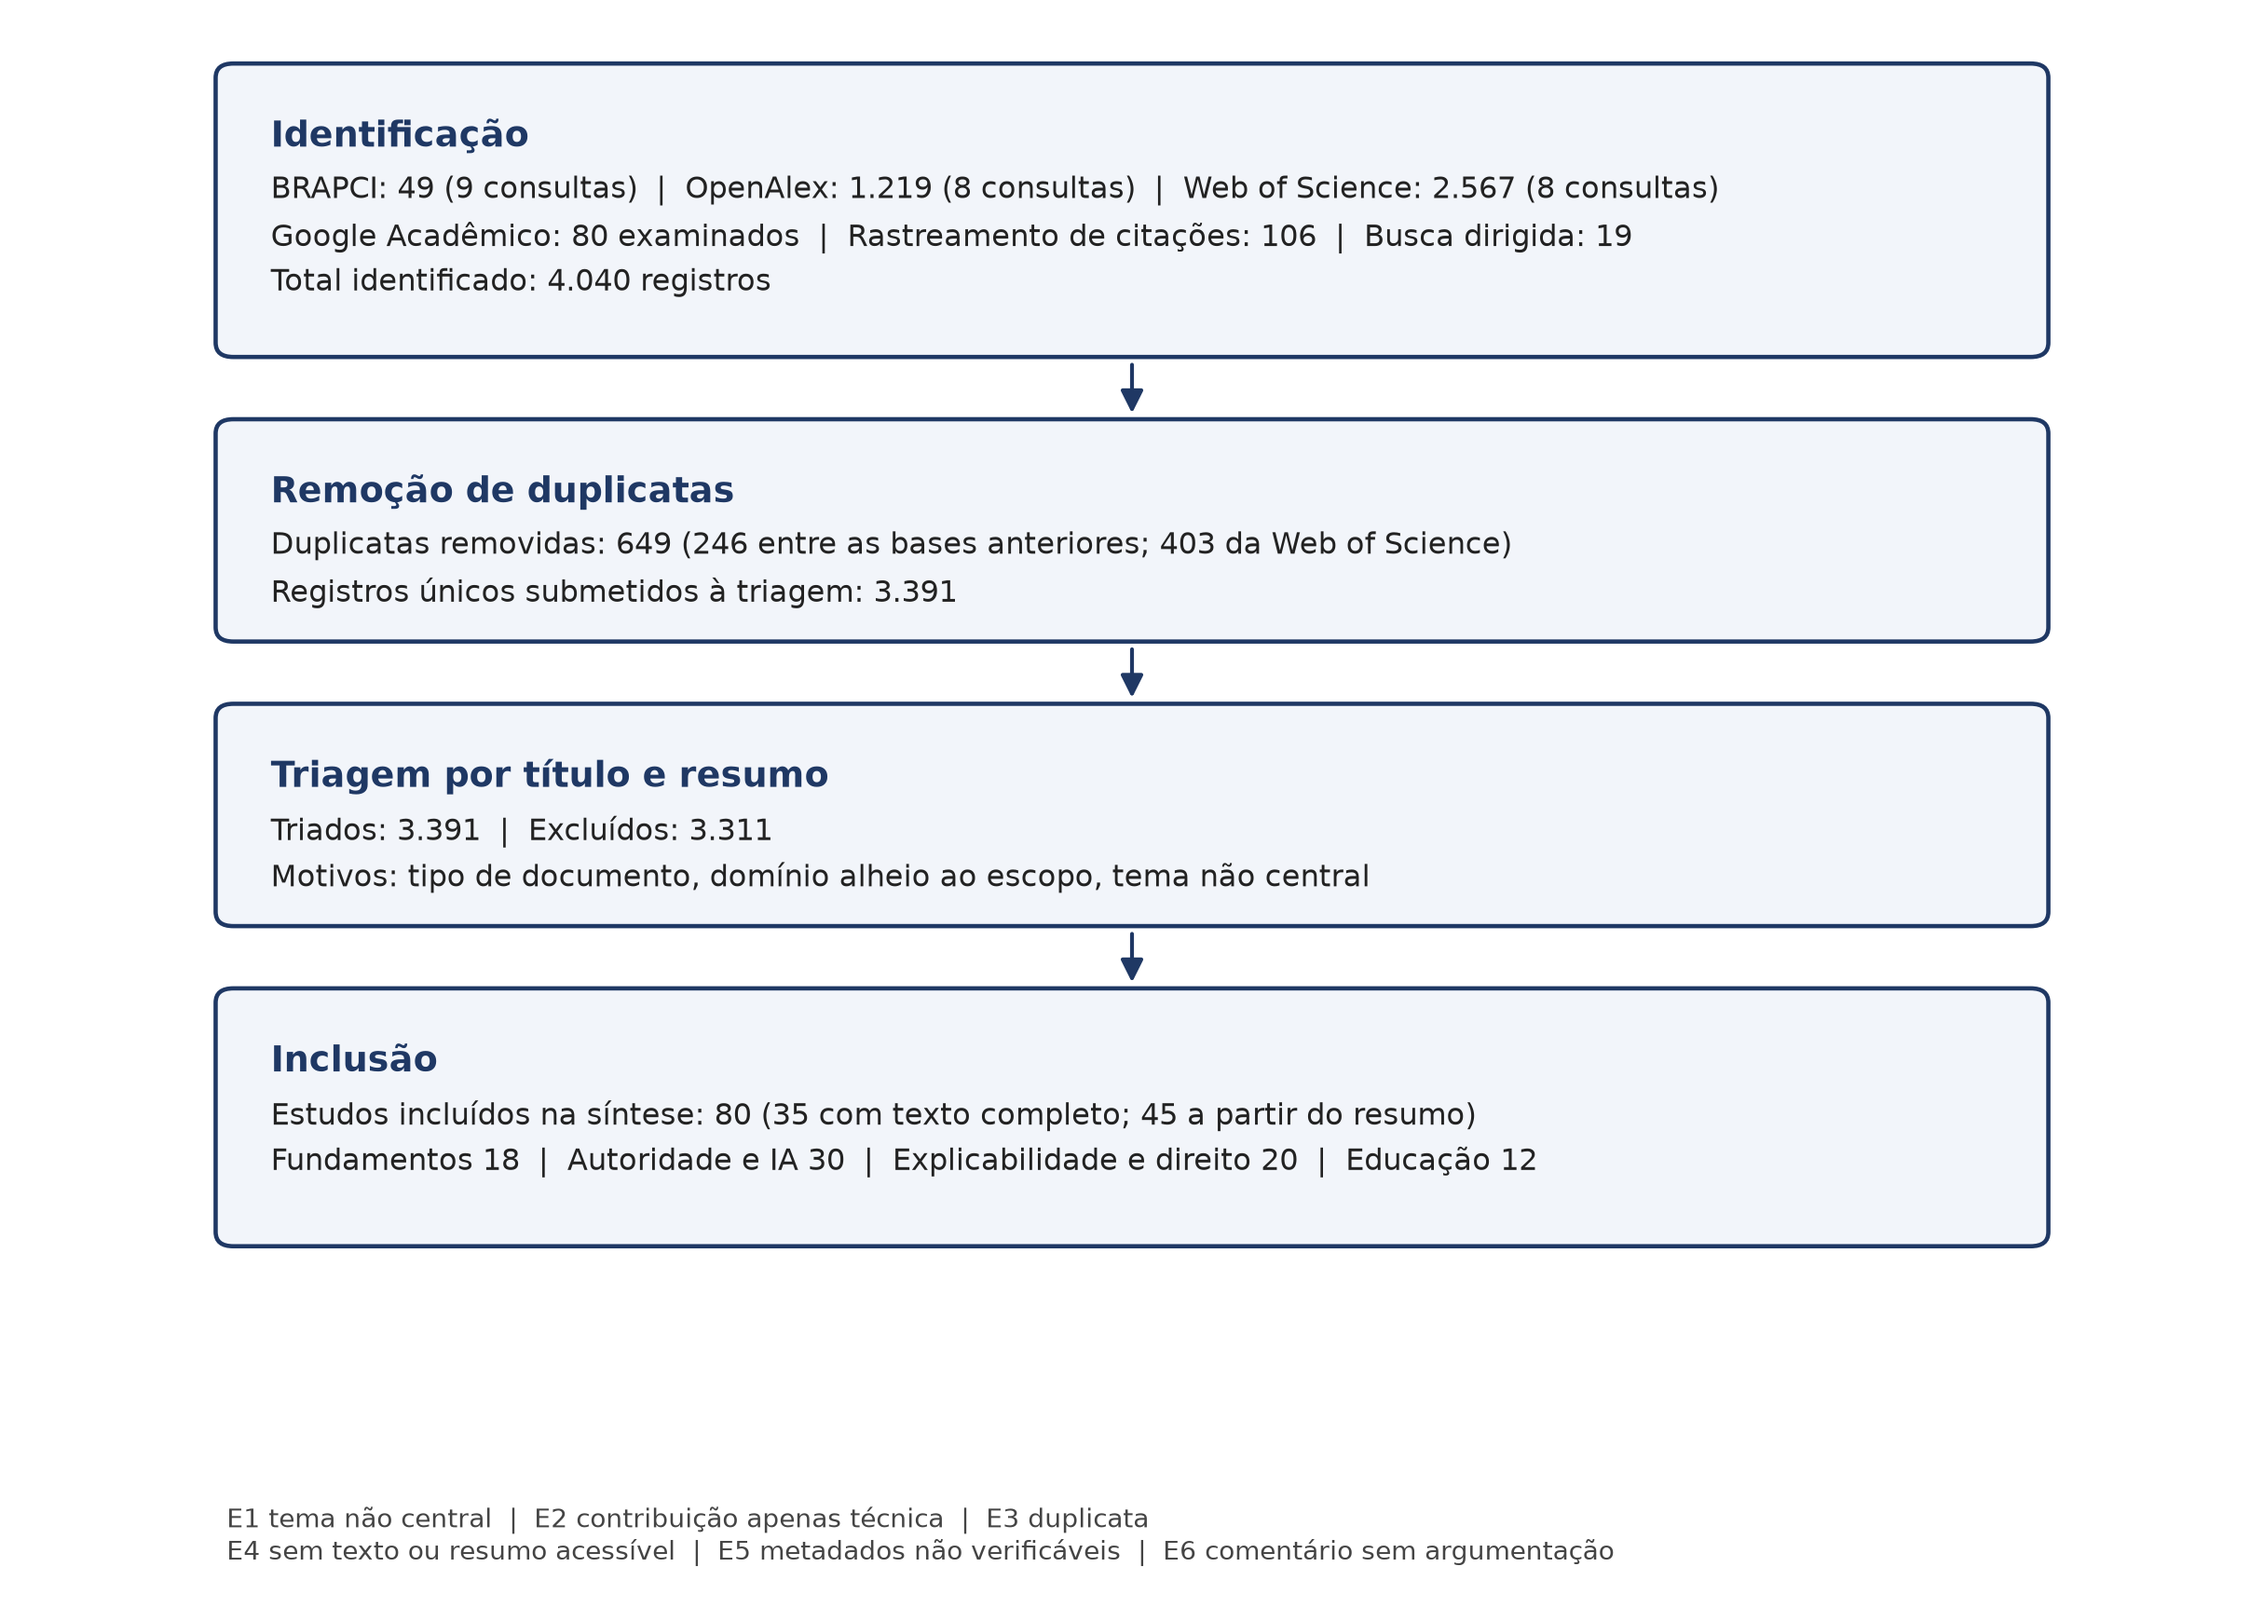
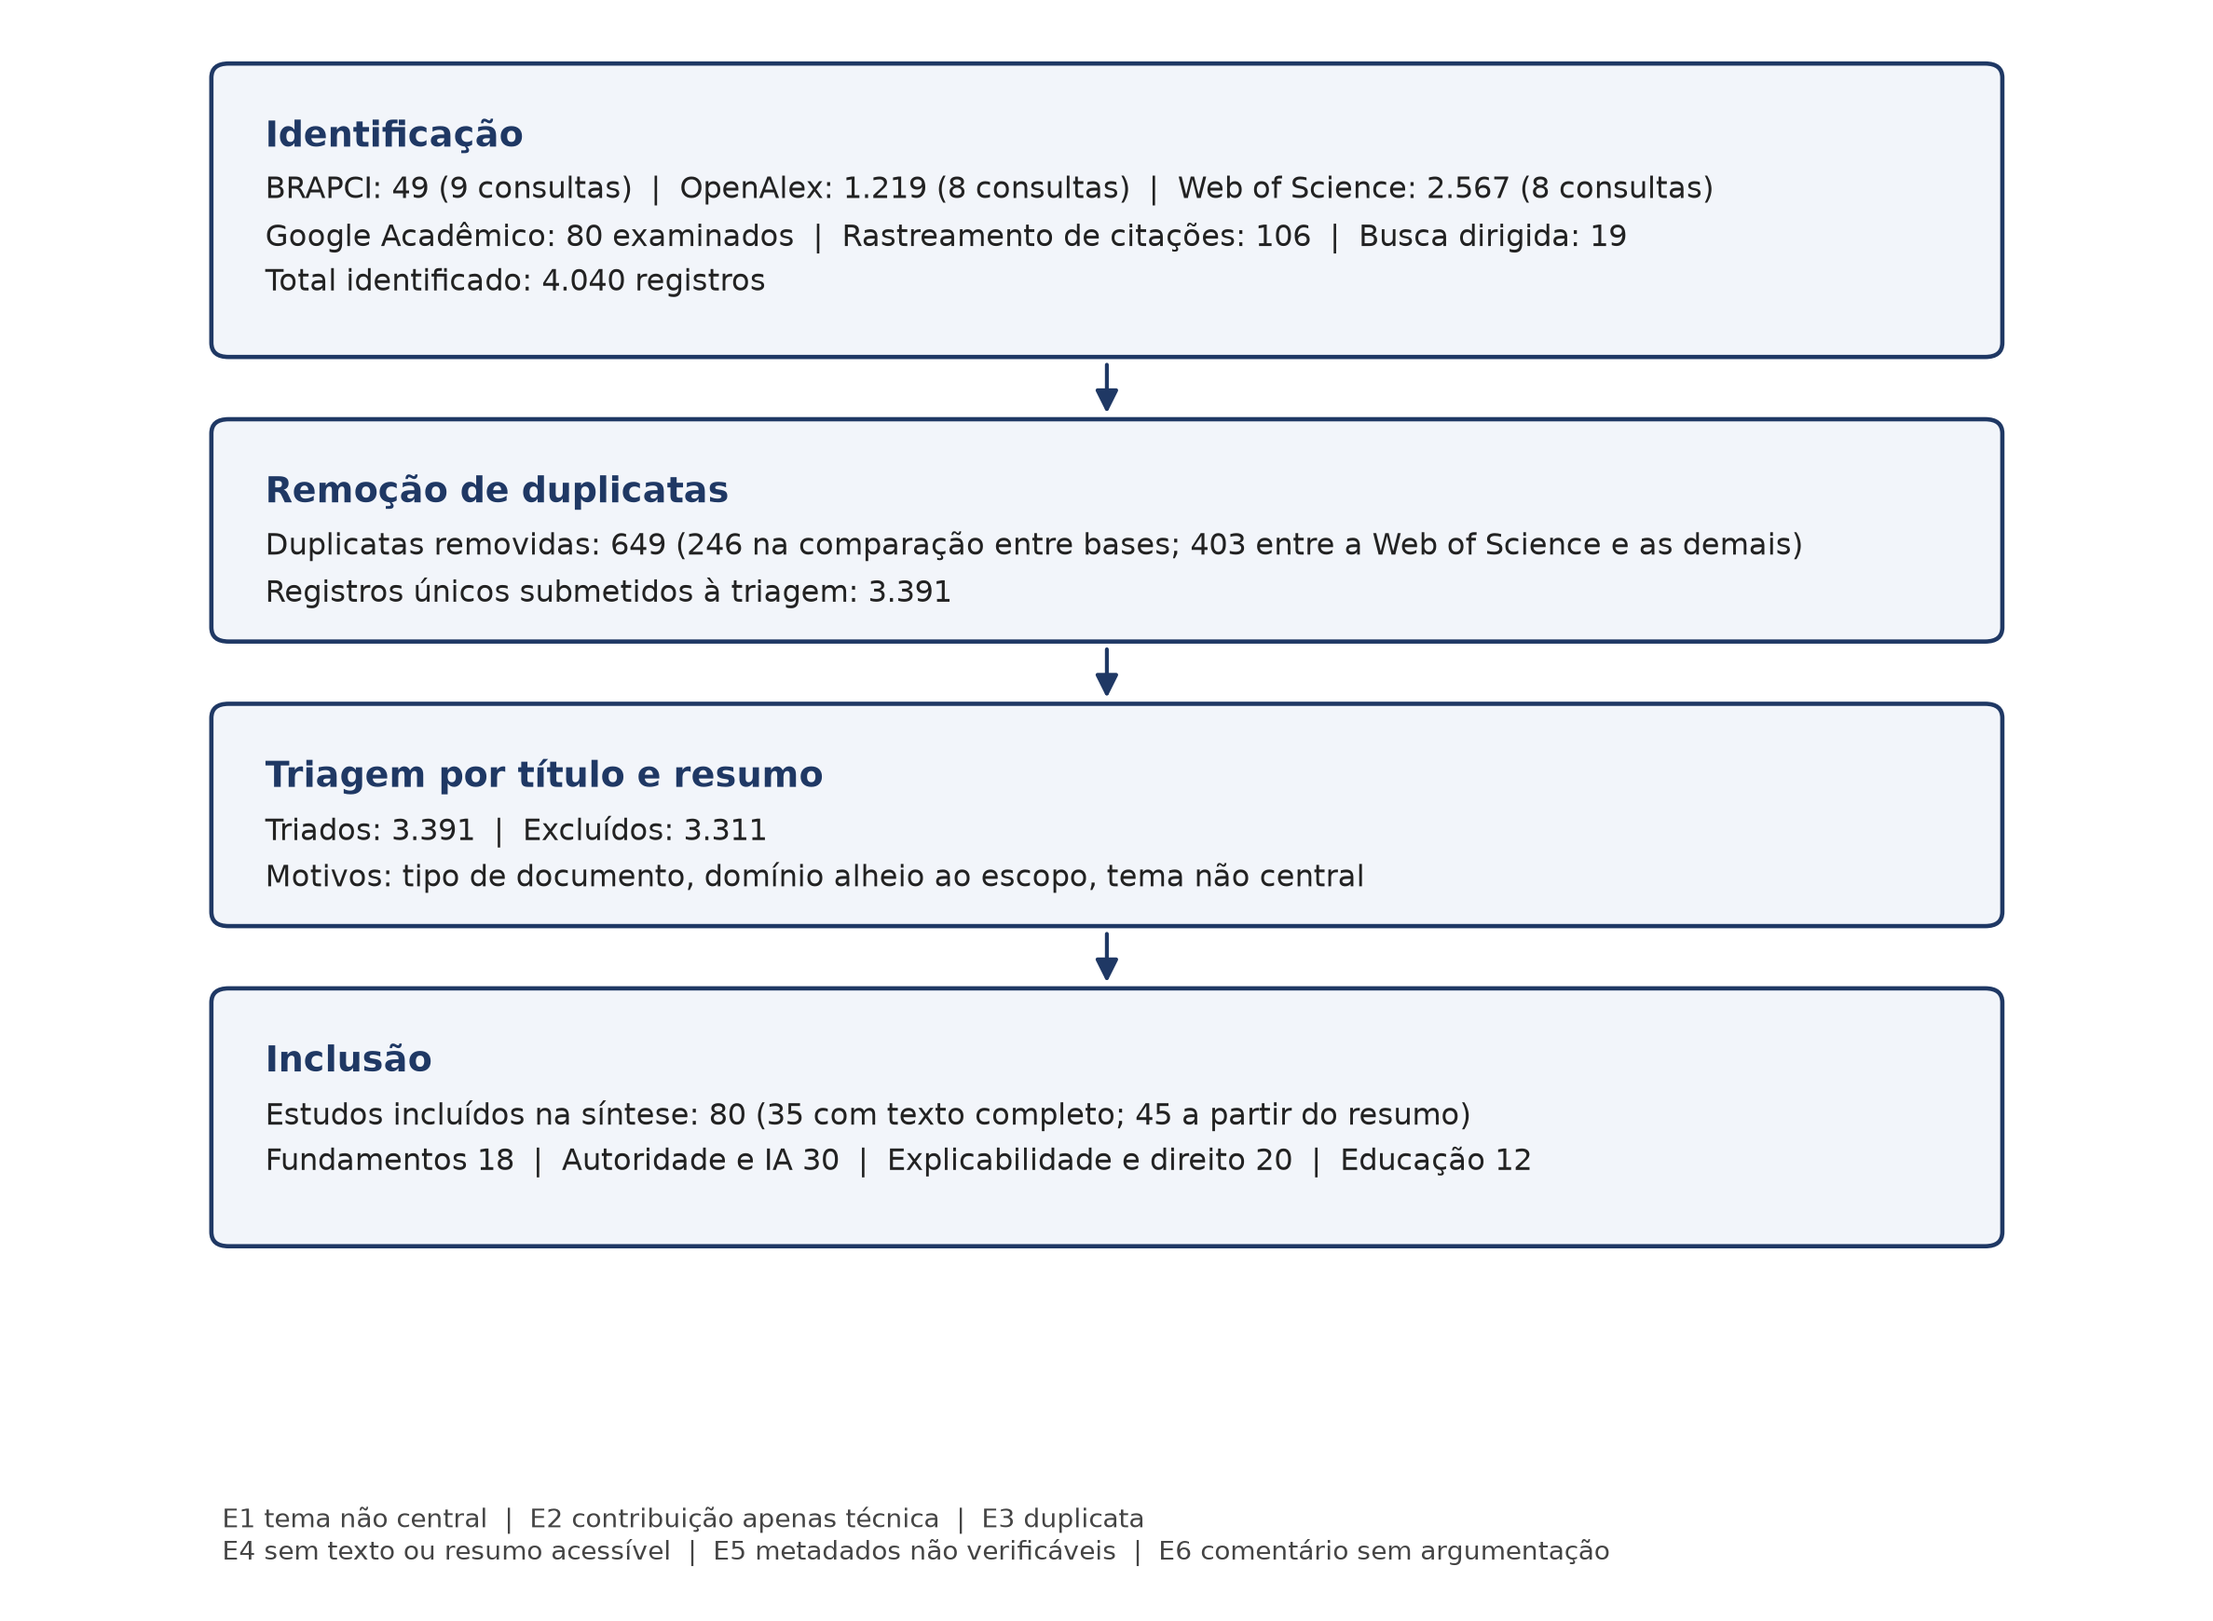
Números do corpus completo: figura 2 recalculada sobre 3.391 registros, figura 1 e planilha com redação neutra, estatísticas derivadas e changelog 1.3.0

diff --git a/scripts/estat_corpus.py b/scripts/estat_corpus.py
@@ -1,0 +1,50 @@
+# -*- coding: utf-8 -*-
+"""Estatísticas do corpus único completo, usadas na Figura 2.
+
+Lê os registros únicos das bases (dados/02_triagem/registros_unicos_bases.csv) e os
+registros novos da Web of Science (dados/01_buscas/wos_registros_novos.csv), ambos
+separados por ponto e vírgula, e grava a distribuição por ano em
+dados/02_triagem/estatisticas_corpus_completo.json.
+"""
+import csv, json, re, collections, os
+
+RAIZ = os.path.dirname(os.path.dirname(os.path.abspath(__file__)))
+BASES = os.path.join(RAIZ, "dados", "02_triagem", "registros_unicos_bases.csv")
+WOS = os.path.join(RAIZ, "dados", "01_buscas", "wos_registros_novos.csv")
+SAIDA = os.path.join(RAIZ, "dados", "02_triagem", "estatisticas_corpus_completo.json")
+
+def ler(caminho):
+    with open(caminho, encoding="utf-8-sig", newline="") as f:
+        return list(csv.DictReader(f, delimiter=";"))
+
+def ano(reg):
+    m = re.search(r"(19|20)\d{2}", str(reg.get("ano") or ""))
+    return int(m.group(0)) if m else None
+
+registros = ler(BASES) + ler(WOS)
+anos = collections.Counter()
+for r in registros:
+    a = ano(r)
+    if a:
+        anos[str(a)] += 1
+
+PREP = ("zenodo", "ssrn", "arxiv", "preprint", "preprints", "osf", "research square", "scielo preprints")
+def preprint(r):
+    v = (r.get("veiculo") or "").lower()
+    return any(k in v for k in PREP)
+
+dados = {
+    "total_registros": len(registros),
+    "com_ano": sum(anos.values()),
+    "sem_ano": len(registros) - sum(anos.values()),
+    "anos": dict(sorted(anos.items())),
+    "preprints": sum(1 for r in registros if preprint(r)),
+}
+json.dump(dados, open(SAIDA, "w", encoding="utf-8"), ensure_ascii=False, indent=1)
+
+FAIXAS = [("<2000", lambda y: y < 2000), ("2000-2009", lambda y: 2000 <= y <= 2009),
+          ("2010-2014", lambda y: 2010 <= y <= 2014), ("2015-2019", lambda y: 2015 <= y <= 2019),
+          ("2020-2024", lambda y: 2020 <= y <= 2024), ("2025-2026", lambda y: y >= 2025)]
+print("registros:", len(registros), "| sem ano:", dados["sem_ano"], "| preprints:", dados["preprints"])
+for rotulo, teste in FAIXAS:
+    print(f"  {rotulo}: {sum(v for y, v in anos.items() if teste(int(y)))}")

diff --git a/README.md b/README.md
@@ -44,7 +44,7 @@ A revisão seguiu a metodologia do JBI e as orientações de relato do PRISMA-Sc
 
 ## Números da revisão
 
-Foram identificados 4.040 registros: 1.239 na OpenAlex, 2.567 na Web of Science Core Collection, 49 na BRAPCI, 80 no Google Acadêmico, 106 por rastreamento de citações e 19 por busca nominal dirigida. Após a remoção de 649 duplicatas, restaram 3.391 registros únicos, e a triagem excluiu 3.311, o que resultou em 80 estudos incluídos, publicados entre 1983 e 2026, dos quais 35 tiveram o texto completo examinado e 45 foram incorporados a partir do resumo. A expressão exata *synthetic authority* não retornou nenhum registro na Web of Science.
+Foram identificados 4.040 registros: 1.219 na OpenAlex, 2.567 na Web of Science Core Collection, 49 na BRAPCI, 80 no Google Acadêmico, 106 por rastreamento de citações e 19 por busca nominal dirigida. Após a remoção de 649 duplicatas, restaram 3.391 registros únicos, e a triagem excluiu 3.311, o que resultou em 80 estudos incluídos, publicados entre 1983 e 2026, dos quais 35 tiveram o texto completo examinado e 45 foram incorporados a partir do resumo. A expressão exata *synthetic authority* não retornou nenhum registro na Web of Science. Dos 3.391 registros únicos, 2.388 (70,6%) foram publicados em 2025 ou 2026, 701 (20,7%) entre 2020 e 2024 e 295 (8,7%) antes de 2020, e 223 (6,6%) provêm de repositórios de preprint.
 
 ## Reprodutibilidade
 
@@ -56,6 +56,7 @@ python scripts/harvest.py        # coleta nas bases e registro das consultas
 python scripts/triagem.py        # deduplicação e triagem de primeiro nível
 python scripts/verificar.py      # conferência de metadados no Crossref
 python scripts/gerar_xlsx.py     # planilha auditável
+python scripts/estat_corpus.py   # distribuição por ano do corpus completo (figura 2)
 python scripts/figuras.py        # figuras 1 e 2
 ```
 

diff --git a/CHANGELOG.md b/CHANGELOG.md
@@ -1,4 +1,12 @@
 # Registro de alterações
+## 1.3.0 — 12 de novembro de 2026
+Correção dos números do corpus e das figuras.
+- A figura 2 passou a ser calculada sobre os 3.391 registros únicos do corpus completo, e não sobre os 1.227 registros das bases bibliográficas, com a distribuição de 2.388 registros (70,6%) em 2025-2026, 701 (20,7%) em 2020-2024 e 295 (8,7%) antes de 2020.
+- A contagem de preprints foi refeita sobre o corpus completo, com 223 registros (6,6%), dos quais 91 em Zenodo, 78 em SSRN e 29 em arXiv.
+- A figura 1 recebeu redação que descreve a remoção das 649 duplicatas sem ordenar as fontes no tempo.
+- A aba de fluxo da planilha auditável identifica as colunas pelo nome das bases, e o leia-me da planilha deixou de se referir a bases anteriores.
+- Acréscimo de `dados/02_triagem/estatisticas_corpus_completo.json` e de `scripts/estat_corpus.py`, que regera esse arquivo a partir dos dois conjuntos de registros.
+- Correção do total da OpenAlex no README, de 1.239 para 1.219 registros, que é o valor compatível com os 4.040 registros identificados.
 
 ## 1.2.0 — 12 de novembro de 2026
 
